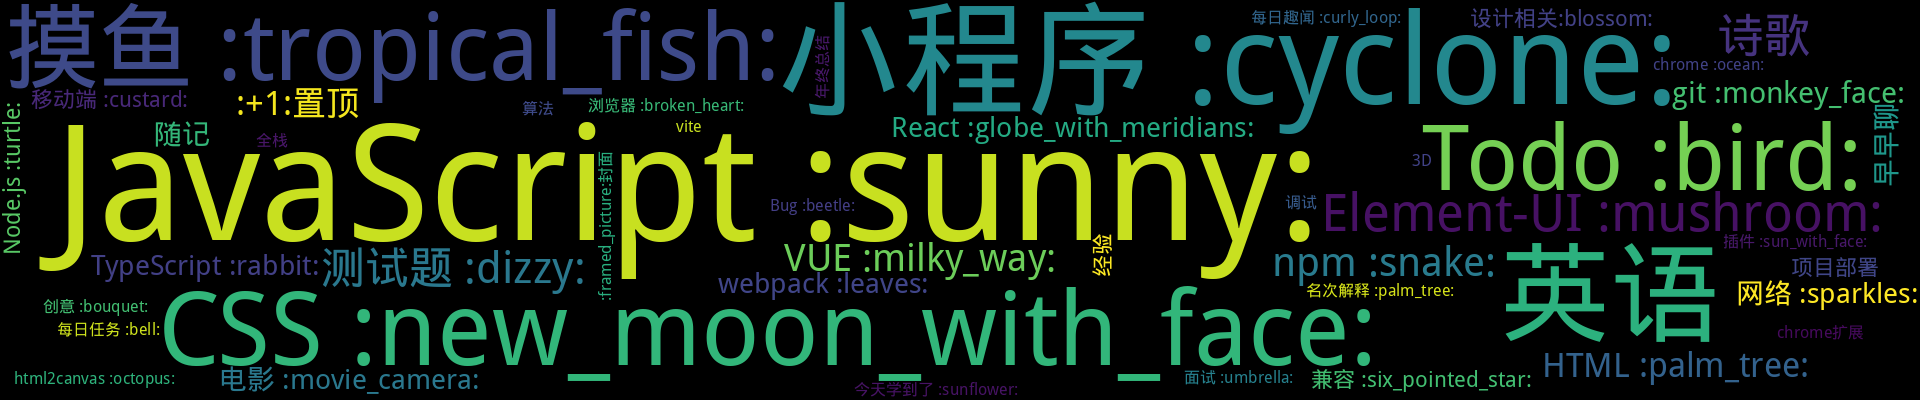
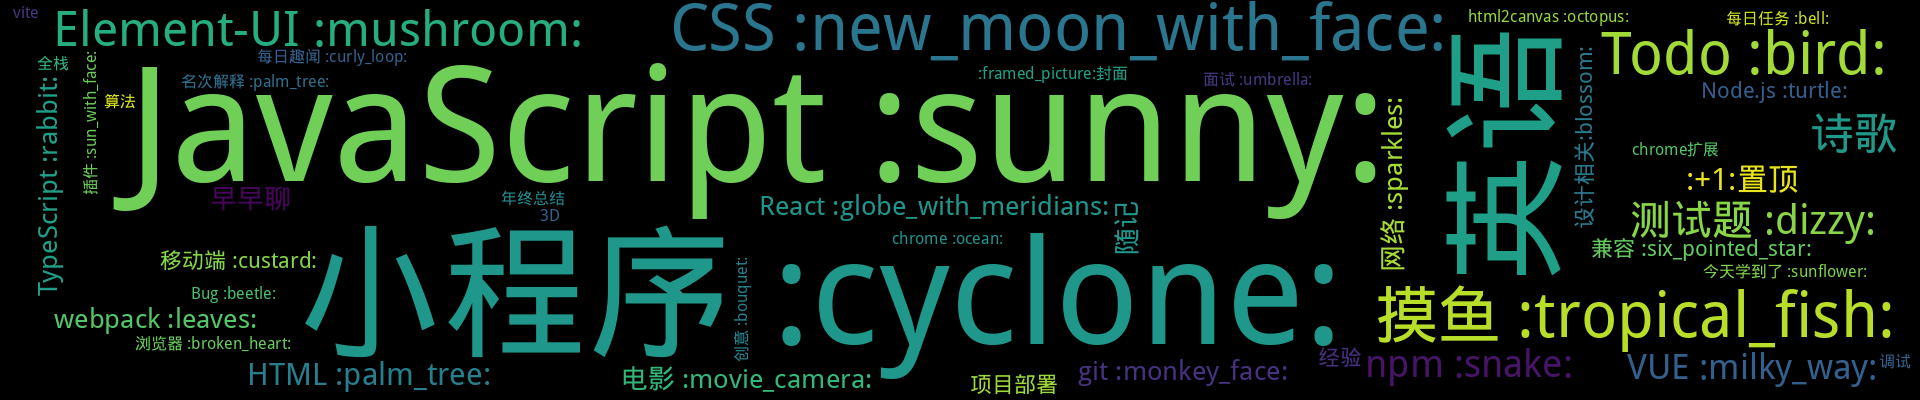
Update from Github Action

diff --git a/README.md b/README.md
@@ -3,7 +3,7 @@
 <p align='center'>
     <img src="https://badgen.net/badge/labels/49"/>
     <img src="https://badgen.net/github/issues/smileyby/ghiblog"/>
-    <img src="https://badgen.net/badge/last-commit/2022-03-16 06:55:37"/>
+    <img src="https://badgen.net/badge/last-commit/2022-03-16 09:47:08"/>
     <img src="https://badgen.net/github/forks/smileyby/ghiblog"/>
     <img src="https://badgen.net/github/stars/smileyby/ghiblog"/>
     <img src="https://badgen.net/github/watchers/smileyby/ghiblog"/>
@@ -245,9 +245,10 @@ The idea is to have as many good ones as you can.
 </details>
 
 <details>
-<summary>JavaScript :sunny:	<sup>33:newspaper:</sup></summary>
+<summary>JavaScript :sunny:	<sup>34:newspaper:</sup></summary>
 
 - [JS: Number.prototype.toLocaleString ](https://github.com/smileyby/notes/issues/222)  <sup>0 :speech_balloon:</sup>  	 
+- [js 实现视频转gif](https://github.com/smileyby/notes/issues/221)  <sup>0 :speech_balloon:</sup>  	 
 - [给日期补零简便方法](https://github.com/smileyby/notes/issues/206)  <sup>0 :speech_balloon:</sup>  	 
 - [浏览器端下载文件](https://github.com/smileyby/notes/issues/166)  <sup>0 :speech_balloon:</sup>  	 
 - [module.exports 与 export 区别 ](https://github.com/smileyby/notes/issues/148)  <sup>1 :speech_balloon:</sup>  	 
@@ -317,9 +318,8 @@ The idea is to have as many good ones as you can.
 </details>
 
 <details>
-<summary>Todo :bird:	<sup>16:newspaper:</sup></summary>
+<summary>Todo :bird:	<sup>15:newspaper:</sup></summary>
 
-- [js 实现视频转gif](https://github.com/smileyby/notes/issues/221)  <sup>0 :speech_balloon:</sup>  	 
 - [Todo：了解css module](https://github.com/smileyby/notes/issues/201)  <sup>0 :speech_balloon:</sup>  	 
 - [Todo：项目由vue2转vue3](https://github.com/smileyby/notes/issues/200)  <sup>4 :speech_balloon:</sup>  	 
 - [纯JS将内容转为 二维码](https://github.com/smileyby/notes/issues/196)  <sup>0 :speech_balloon:</sup>  	 
